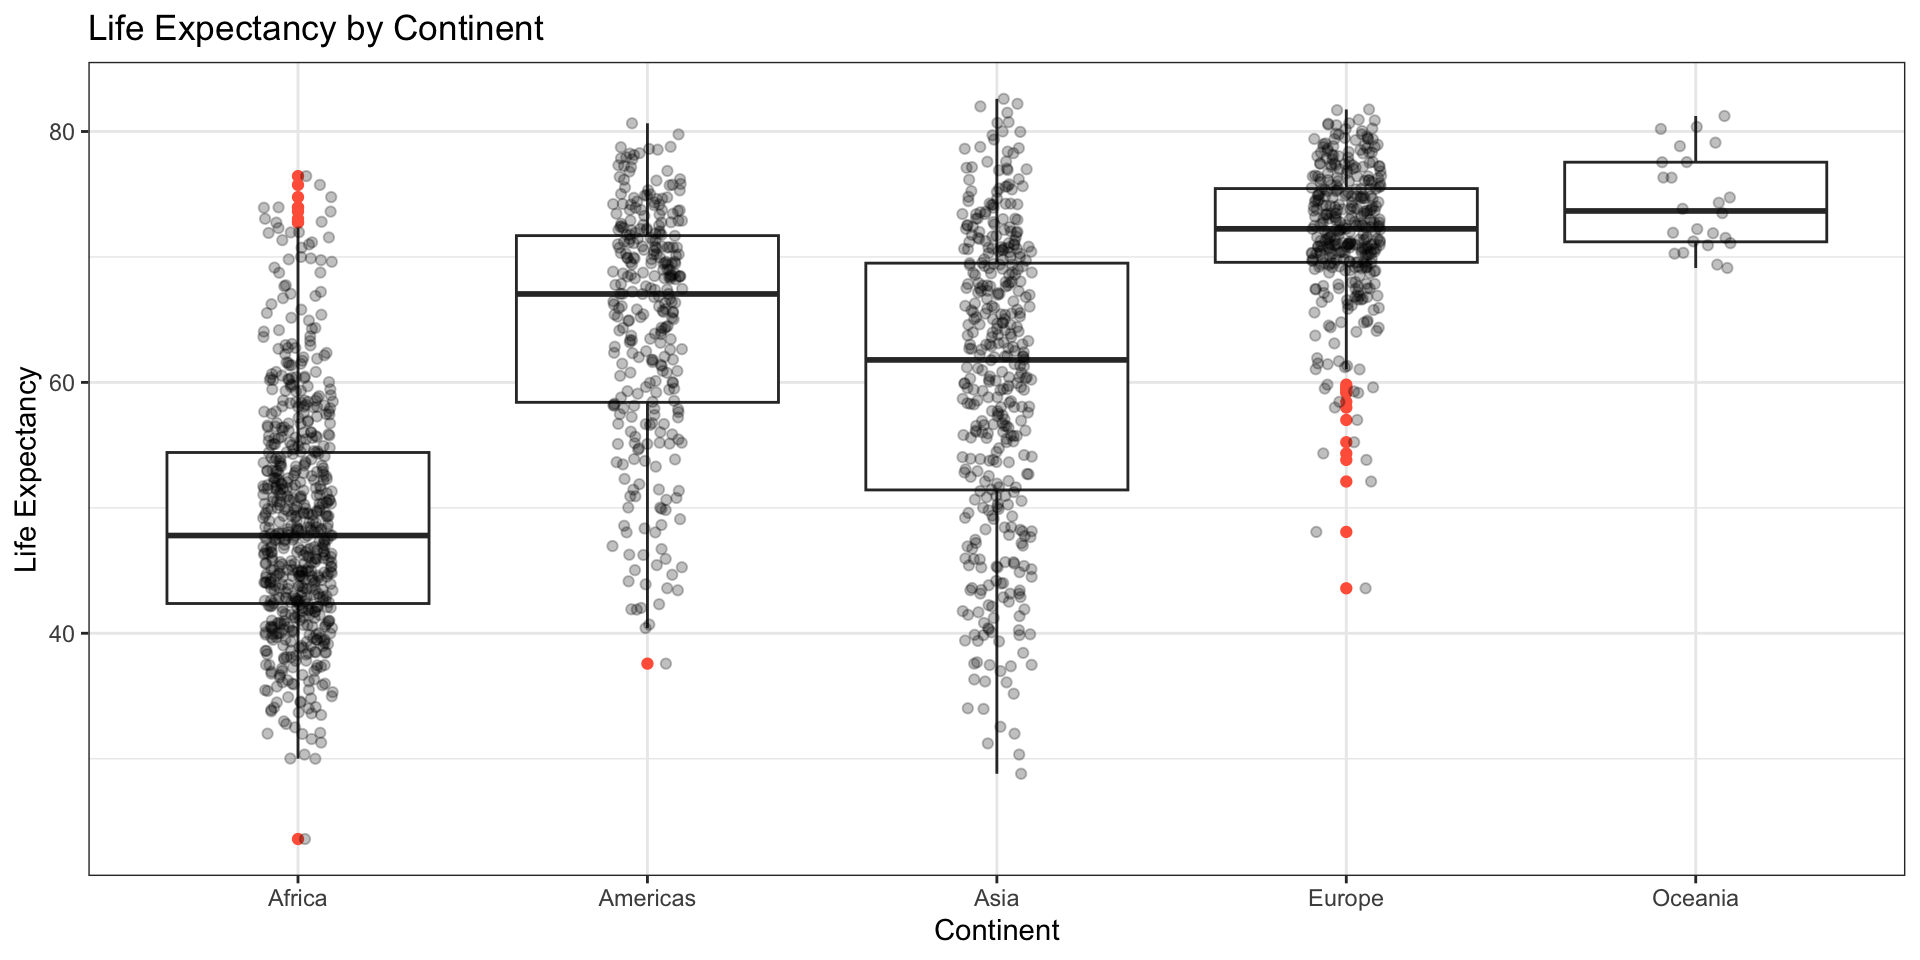
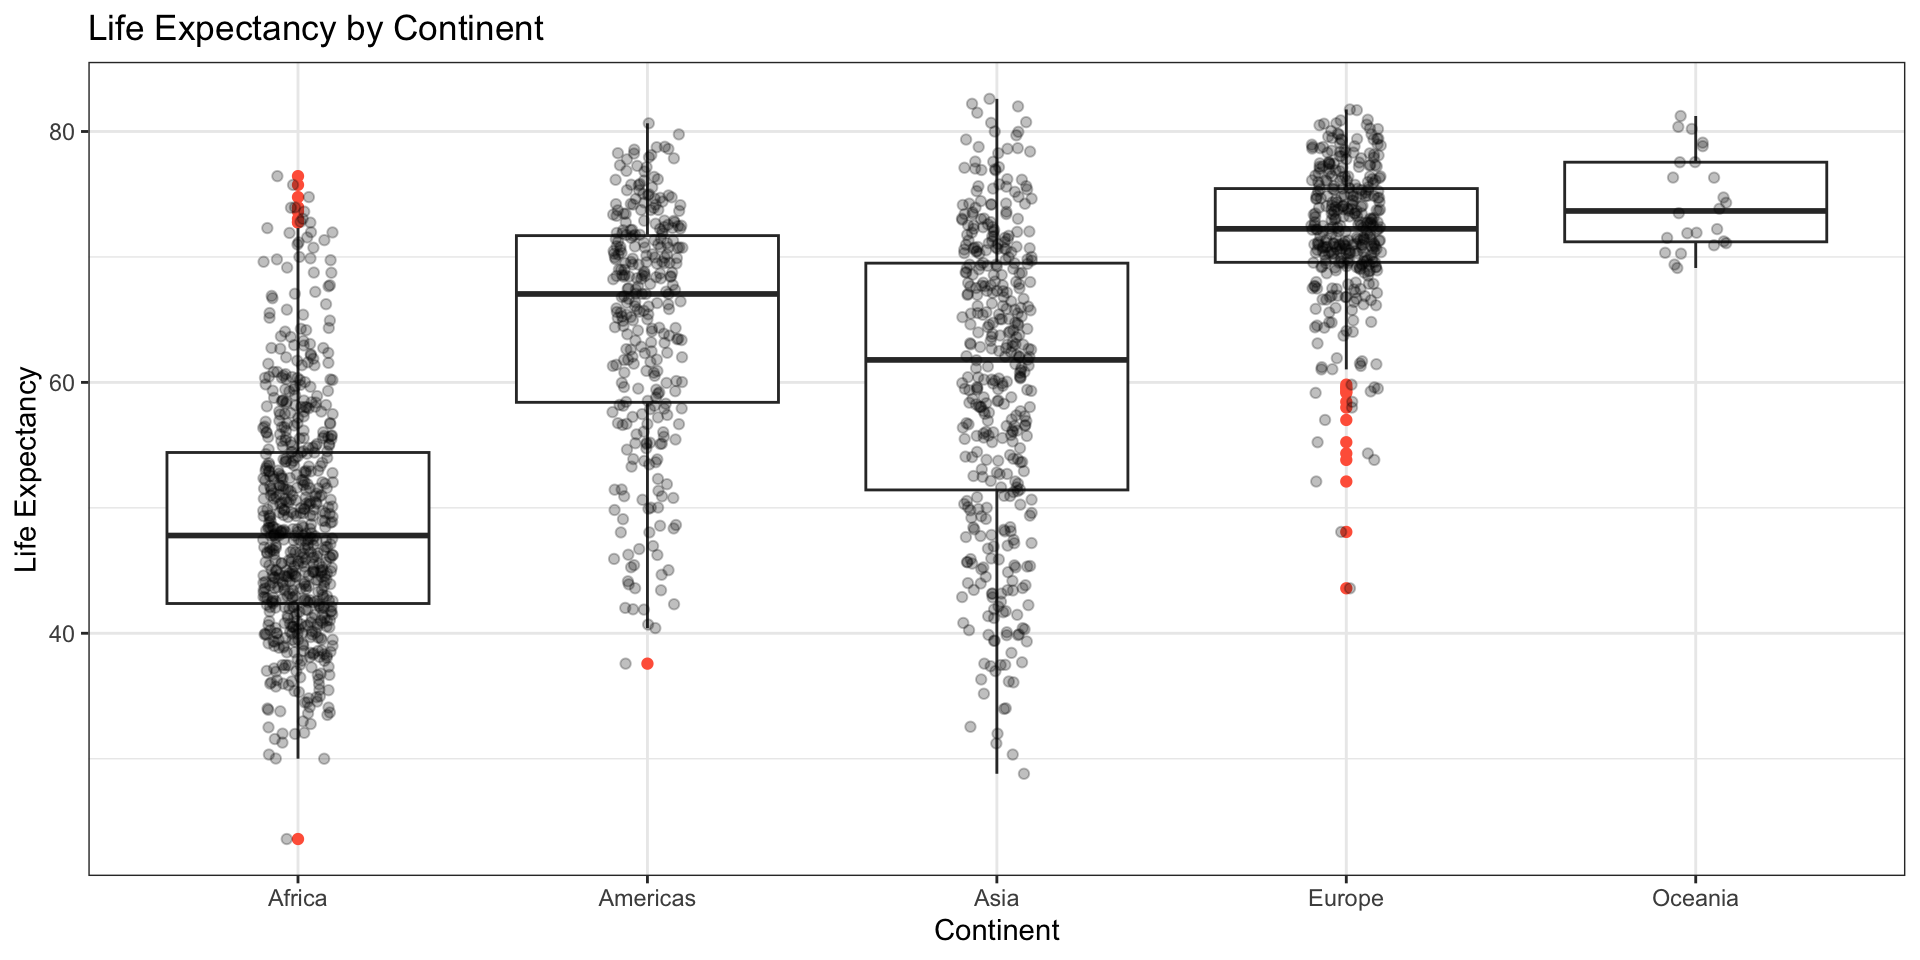
update slides

diff --git a/PSY6422_Models_BonusLecture.html b/PSY6422_Models_BonusLecture.html
@@ -10,7 +10,7 @@
   <meta name="generator" content="quarto-1.7.32">
 
   <meta name="author" content="Dr Sabrina Burr">
-  <title>PSY6422 Slides 2026 – PSY6422 - Data Analysis &amp; Visualisation</title>
+  <title>PSY6422 Slides 2026 – PSY6422 - Data Management &amp; Visualisation</title>
   <meta name="apple-mobile-web-app-capable" content="yes">
   <meta name="apple-mobile-web-app-status-bar-style" content="black-translucent">
   <meta name="viewport" content="width=device-width, initial-scale=1.0, maximum-scale=1.0, user-scalable=no, minimal-ui">
@@ -216,7 +216,7 @@
     <div class="slides">
 
 <section id="title-slide" class="quarto-title-block center">
-  <h1 class="title">PSY6422 - Data Analysis &amp; Visualisation</h1>
+  <h1 class="title">PSY6422 - Data Management &amp; Visualisation</h1>
   <p class="subtitle">Bonus Material: Work with Models</p>
 
 <div class="quarto-title-authors">
@@ -1095,11 +1095,11 @@ F-statistic: 35.24 on 1 and 28 DF,  p-value: 2.173e-06</code></pre>
 <pre><code># A tibble: 5 × 9
   continent  year data     model  term      estimate std.error statistic p.value
   &lt;fct&gt;     &lt;int&gt; &lt;list&gt;   &lt;list&gt; &lt;chr&gt;        &lt;dbl&gt;     &lt;dbl&gt;     &lt;dbl&gt;   &lt;dbl&gt;
-1 Asia       2002 &lt;tibble&gt; &lt;lm&gt;   log(gdpP…     5.44     0.696      7.82 8.05e-9
-2 Africa     1982 &lt;tibble&gt; &lt;lm&gt;   log(gdpP…     5.61     0.898      6.25 8.79e-8
-3 Africa     1967 &lt;tibble&gt; &lt;lm&gt;   log(gdpP…     3.07     0.988      3.11 3.13e-3
-4 Africa     1997 &lt;tibble&gt; &lt;lm&gt;   log(gdpP…     6.89     1.04       6.64 2.16e-8
-5 Europe     2002 &lt;tibble&gt; &lt;lm&gt;   log(gdpP…     3.74     0.445      8.40 3.91e-9</code></pre>
+1 Asia       1982 &lt;tibble&gt; &lt;lm&gt;   log(gdpP…     4.78     0.852      5.61 3.77e-6
+2 Africa     1957 &lt;tibble&gt; &lt;lm&gt;   log(gdpP…     2.69     1.06       2.55 1.40e-2
+3 Asia       1967 &lt;tibble&gt; &lt;lm&gt;   log(gdpP…     4.50     1.15       3.90 4.77e-4
+4 Americas   1987 &lt;tibble&gt; &lt;lm&gt;   log(gdpP…     7.10     1.14       6.25 2.22e-6
+5 Americas   2002 &lt;tibble&gt; &lt;lm&gt;   log(gdpP…     5.05     0.844      5.99 4.18e-6</code></pre>
 </div>
 </div>
 </section>
